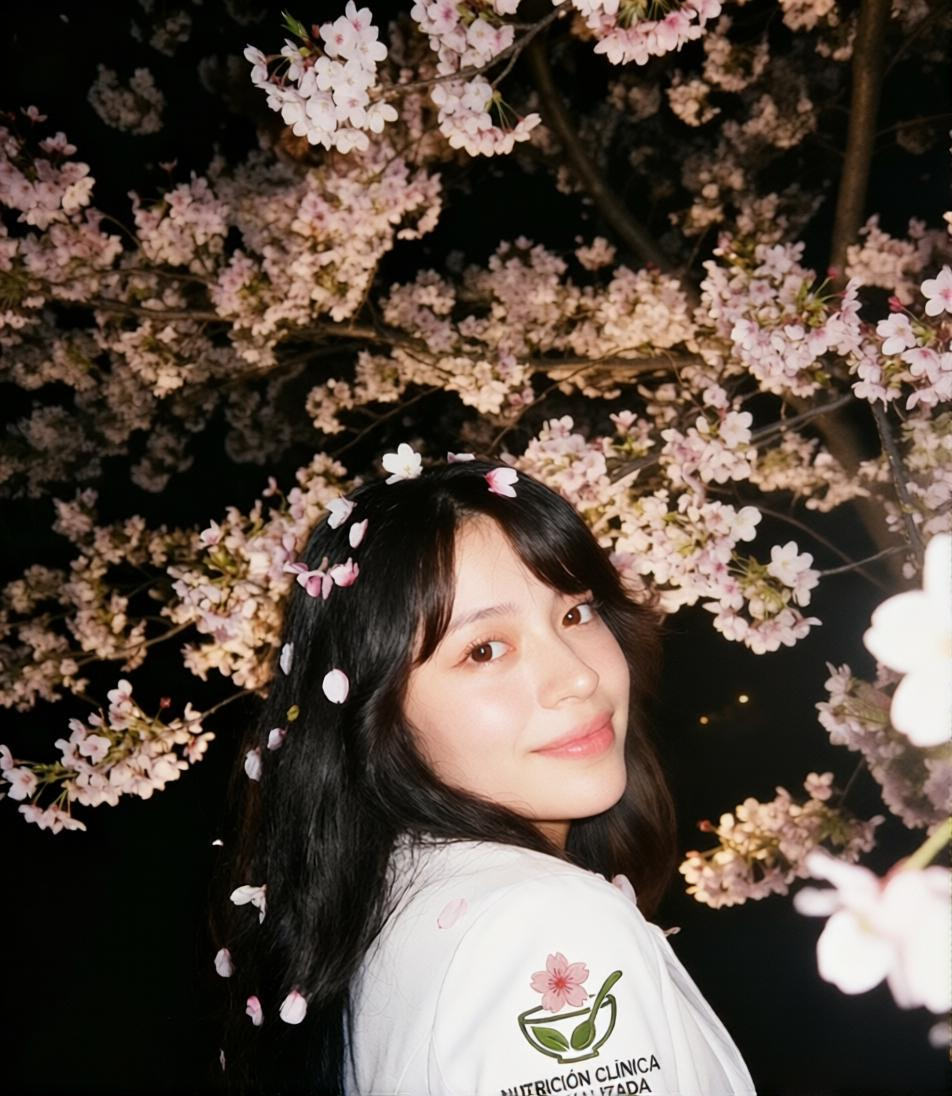
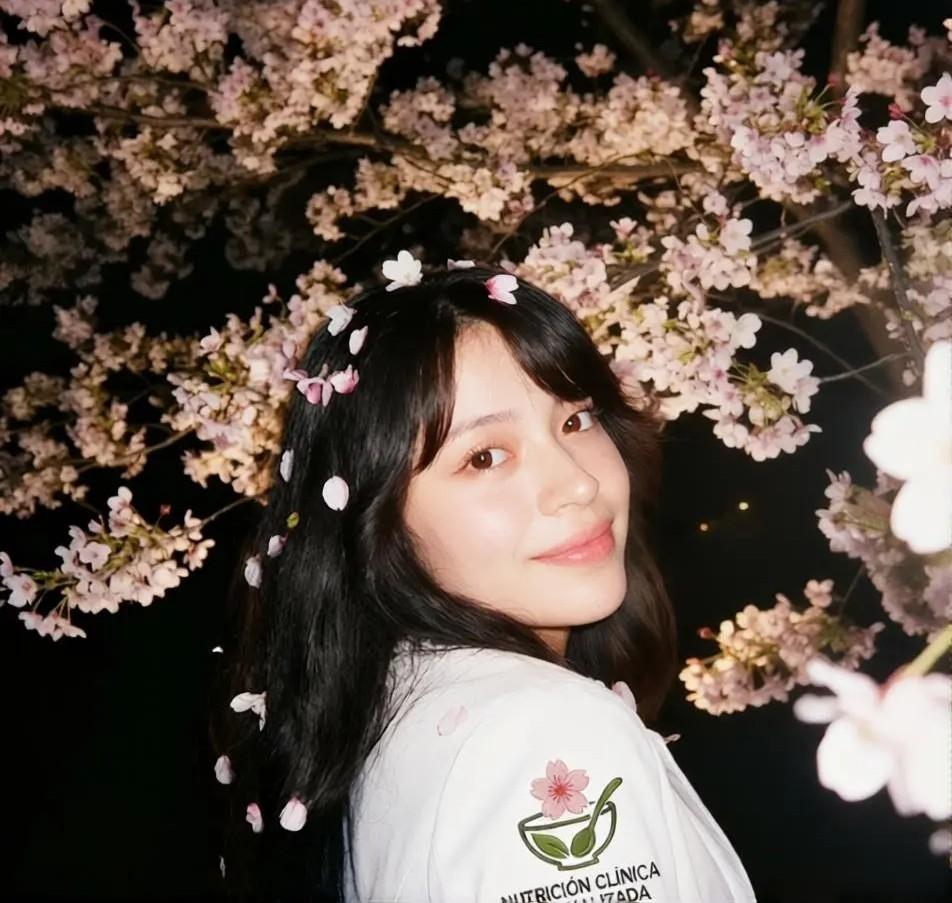
Hero change

diff --git a/index.html b/index.html
@@ -109,10 +109,6 @@
           <span></span>
           <span></span>
         </button>
-        <a class="nav__cta" href="https://wa.me/593961981866?text=Hola%20Lou%2C%20me%20gustar%C3%ADa%20agendar%20una%20consulta." target="_blank" rel="noopener">
-          <img src="https://upload.wikimedia.org/wikipedia/commons/6/6b/WhatsApp.svg" alt="" width="15" height="15" />
-          <span>Agendar</span>
-        </a>
       </div>
     </div>
   </header>
@@ -194,8 +190,11 @@
       </div>
 
       <div class="hero__scroll" aria-hidden="true">
-        <span>desliza</span>
-        <span class="hero__scroll-line"></span>
+        <span class="hero__scroll-line">
+          <svg class="hero__scroll-seed" viewBox="0 0 12 12" fill="none" xmlns="http://www.w3.org/2000/svg">
+            <path d="M6 1.2c2.6 1.6 4 3.7 3.7 5.9-.3 2.3-2 3.7-3.7 3.7S2.6 9.4 2.3 7.1C2 4.9 3.4 2.8 6 1.2Z" fill="currentColor" />
+          </svg>
+        </span>
       </div>
     </section>
 
@@ -209,7 +208,7 @@
             </svg>
           </span>
           <div class="about__img-wrap">
-            <img class="about__img" src="lou.webp" alt="Lou Giabor, Nutricionista" width="800" height="1000" decoding="async" />
+            <img class="about__img" src="lou.jpg" alt="Lou Borja, Nutricionista" width="800" height="1000" decoding="async" />
           </div>
           <div class="about__badge">
             <span class="about__badge-label">Pacientes. Acompañados</span>
@@ -640,7 +639,7 @@
       <div class="section__inner contact__inner">
         <div class="contact__col">
           <div class="contact__fruits" aria-hidden="true">
-            <dotlottie-wc src="assets/frutas.lottie" autoplay loop speed="0.7" style="width:100%;height:100%;"></dotlottie-wc>
+            <dotlottie-wc src="frutas.lottie" autoplay loop speed="0.7" style="width:100%;height:100%;"></dotlottie-wc>
           </div>
           <div class="contact__kicker">
             <span class="contact__kicker-rule"></span>
@@ -712,7 +711,7 @@
   <footer class="foot">
     <div class="foot__inner">
       <div class="foot__brand">
-        <span class="foot__name">Lou Giabor</span>
+        <span class="foot__name">Lou Borja</span>
         <span class="foot__role">Nutricionista clínica · San Miguel de Bolívar, Ecuador</span>
         <div class="foot__social">
           <a href="https://www.facebook.com/lulita.borja" target="_blank" rel="noopener" aria-label="Facebook">
@@ -732,7 +731,7 @@
         <a href="#contacto">Contacto</a>
       </nav>
       <div class="foot__legal">
-        <span>© 2026 Lou Giabor</span>
+        <span>© 2026 Lou Borja</span>
         <span>Todos los derechos reservados</span>
       </div>
     </div>

diff --git a/css/styles.css b/css/styles.css
@@ -274,36 +274,6 @@ main section[id] {
   transform: scaleX(1);
 }
 
-.nav__cta {
-  display: inline-flex;
-  align-items: center;
-  justify-content: center;
-  gap: 8px;
-  padding: 10px 16px;
-  border-radius: 999px;
-  background: var(--primary);
-  color: var(--white);
-  font-size: 11px;
-  letter-spacing: 0.06em;
-  text-transform: uppercase;
-  font-weight: 500;
-  transition: transform 0.3s ease, box-shadow 0.3s ease, background 0.3s ease;
-  box-shadow: 0 6px 20px -4px color-mix(in srgb, var(--primary) 50%, transparent);
-  flex-shrink: 0;
-  white-space: nowrap;
-}
-
-.nav__cta:hover {
-  transform: translateY(-2px);
-  box-shadow: 0 10px 26px -4px color-mix(in srgb, var(--primary) 60%, transparent);
-}
-
-.nav__cta img {
-  width: 15px;
-  height: 15px;
-  flex-shrink: 0;
-}
-
 .nav__toggle {
   display: none;
   flex-direction: column;
@@ -728,31 +698,55 @@ video.hero__video {
   left: 50%;
   transform: translateX(-50%);
   z-index: 3;
-  display: flex;
-  flex-direction: column;
-  align-items: center;
-  gap: 8px;
-  color: rgba(255, 255, 255, 0.4);
-  font-size: 10px;
-  letter-spacing: 0.1em;
-  text-transform: uppercase;
-  animation: float 3s ease-in-out infinite;
+  color: rgba(255, 255, 255, 0.55);
+  transition: opacity 0.4s ease;
+}
+
+.hero__scroll.is-hidden {
+  opacity: 0;
+  pointer-events: none;
 }
 
 .hero__scroll-line {
+  position: relative;
+  display: block;
   width: 1px;
-  height: 40px;
-  background: linear-gradient(to bottom, rgba(255, 255, 255, 0.4), transparent);
+  height: 42px;
+  background: linear-gradient(to bottom, rgba(255, 255, 255, 0.45), transparent);
 }
 
-@keyframes float {
-  0%,
-  100% {
-    transform: translateX(-50%) translateY(0);
-  }
+.hero__scroll-seed {
+  position: absolute;
+  top: -1px;
+  left: 50%;
+  width: 9px;
+  height: 9px;
+  transform: translateX(-50%);
+  animation: seedFall 2.6s cubic-bezier(0.55, 0, 0.85, 0.35) infinite;
+}
 
-  50% {
-    transform: translateX(-50%) translateY(6px);
+@keyframes seedFall {
+  0% {
+    top: -1px;
+    opacity: 0;
+  }
+  12% {
+    opacity: 1;
+  }
+  78% {
+    opacity: 1;
+  }
+  100% {
+    top: calc(100% - 9px);
+    opacity: 0;
+  }
+}
+
+@media (prefers-reduced-motion: reduce) {
+  .hero__scroll-seed {
+    animation: none;
+    top: 4px;
+    opacity: 0.8;
   }
 }
 
@@ -2338,10 +2332,6 @@ video.hero__video {
     display: none;
   }
 
-  .nav__cta {
-    margin-left: 0;
-  }
-
   .hero__content {
     padding-bottom: clamp(28px, 6vh, 56px);
   }
@@ -2459,14 +2449,6 @@ video.hero__video {
 
   .contact__card {
     padding: 24px;
-  }
-
-  .nav__cta span {
-    display: none;
-  }
-
-  .nav__cta {
-    padding: 10px 12px;
   }
 }
 

diff --git a/js/script.js b/js/script.js
@@ -78,10 +78,13 @@
     setNavHeightVar();
   });
 
+  const heroScroll = document.querySelector(".hero__scroll");
+
   function onScroll() {
     const y = window.scrollY;
     if (nav) nav.classList.toggle("scrolled", y > 24);
     if (fab) fab.classList.toggle("shown", y > 500);
+    if (heroScroll) heroScroll.classList.toggle("is-hidden", y > 80);
 
     var current = "inicio";
     var offset = getNavOffset();
